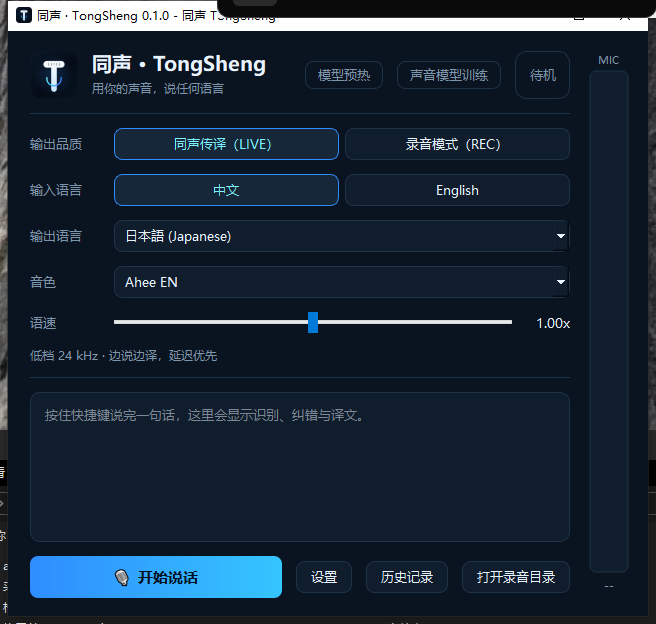
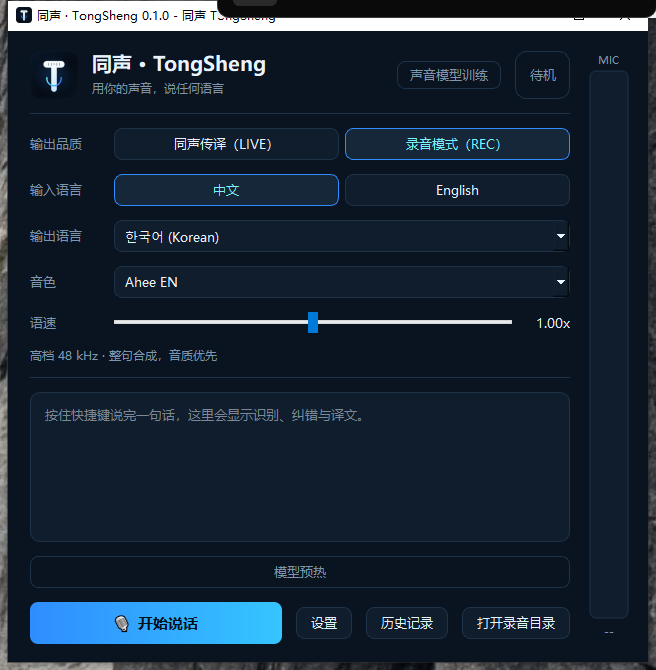
fix: single persistent mic stream (no per-utterance PortAudio churn), live meter during recording, warm-up button above start talking, crash log via faulthandler

diff --git a/tongsheng/audio/capture.py b/tongsheng/audio/capture.py
@@ -62,8 +62,133 @@ def parse_device(value: str | int | None) -> int | None:
     return None
 
 
+class AudioInput:
+    """One persistent microphone stream used for both metering and recording.
+
+    Opening/closing PortAudio streams for every utterance is what makes some
+    WASAPI drivers unhappy (and it also made the level meter go dead while
+    recording). Here the stream stays open; a "take" is just a flag that makes
+    the callback keep the frames.
+    """
+
+    def __init__(self, sample_rate: int = 16000, device: str | int | None = None,
+                 max_seconds: float = 60.0, block_ms: int = 40) -> None:
+        self.sample_rate = int(sample_rate)
+        self.device = parse_device(device)
+        self.max_seconds = float(max_seconds)
+        self.block_ms = int(block_ms)
+        self._stream: Any = None
+        self._lock = threading.Lock()
+        self._take: list[np.ndarray] = []
+        self._recording = False
+        self._device_rate = 48000
+        self._level_db = -90.0
+        self._frames = 0
+        self._overflow = 0
+
+    # -- state ----------------------------------------------------------
+    @property
+    def running(self) -> bool:
+        return self._stream is not None
+
+    @property
+    def recording(self) -> bool:
+        return self._recording
+
+    @property
+    def level_db(self) -> float:
+        return self._level_db
+
+    @property
+    def seconds(self) -> float:
+        return self._frames / float(self._device_rate or 1)
+
+    # -- device ---------------------------------------------------------
+    def open(self) -> bool:
+        if self._stream is not None:
+            return True
+        try:
+            import sounddevice as sd
+
+            device = self.device
+            info = sd.query_devices(device, "input") if device is not None else \
+                sd.query_devices(kind="input")
+            self._device_rate = int(info.get("default_samplerate") or 48000)
+            blocksize = max(256, int(self._device_rate * self.block_ms / 1000))
+
+            def callback(indata, frames, _time, status):  # noqa: ANN001
+                if status:
+                    self._overflow += 1
+                data = indata[:, 0].copy() if indata.ndim > 1 else indata.copy()
+                rms = float(np.sqrt(np.mean(np.square(data)))) if data.size else 0.0
+                self._level_db = max(-90.0, 20.0 * float(np.log10(rms + 1e-12)))
+                with self._lock:
+                    if not self._recording:
+                        return
+                    if self._frames > self.max_seconds * self._device_rate:
+                        return
+                    self._take.append(data)
+                    self._frames += len(data)
+
+            self._stream = sd.InputStream(
+                samplerate=self._device_rate, channels=1, dtype="float32",
+                device=device, blocksize=blocksize, callback=callback)
+            self._stream.start()
+            log.info("microphone stream open (%d Hz, block %d ms)",
+                     self._device_rate, self.block_ms)
+            return True
+        except Exception as exc:  # noqa: BLE001
+            log.warning("cannot open microphone: %s", exc)
+            self._stream = None
+            return False
+
+    def close(self) -> None:
+        stream = self._stream
+        self._stream = None
+        self._recording = False
+        if stream is not None:
+            try:
+                stream.stop()
+                stream.close()
+            except Exception:
+                pass
+
+    # -- takes ----------------------------------------------------------
+    def start_take(self) -> bool:
+        if not self.open():
+            return False
+        with self._lock:
+            self._take = []
+            self._frames = 0
+            self._recording = True
+        return True
+
+    def stop_take(self) -> np.ndarray:
+        with self._lock:
+            self._recording = False
+            chunks = self._take
+            self._take = []
+            self._frames = 0
+        if not chunks:
+            return np.zeros(0, dtype=np.float32)
+        audio = wav.to_mono(np.concatenate(chunks))
+        if self._device_rate != self.sample_rate:
+            audio = wav.resample(audio, self._device_rate, self.sample_rate)
+        return audio
+
+    def abort_take(self) -> None:
+        with self._lock:
+            self._recording = False
+            self._take = []
+            self._frames = 0
+
+
 class Recorder:
-    """Records one utterance at the device rate, then returns 16 kHz mono."""
+    """Records one utterance at the device rate, then returns 16 kHz mono.
+
+    Kept for the training dialog, which records long takes while the main
+    input stream is paused.
+    """
 
     def __init__(self, sample_rate: int = 16000, channels: int = 1,
                  device: str | int | None = None, max_seconds: float = 40.0) -> None:
@@ -78,6 +203,12 @@ class Recorder:
         self._device_rate = self.sample_rate
         self._overflow = 0
         self._frames = 0
+        self._level_db = -90.0
+
+    @property
+    def level_db(self) -> float:
+        """Live input level of the take currently being recorded."""
+        return self._level_db
 
     @property
     def recording(self) -> bool:
@@ -101,6 +232,10 @@ class Recorder:
         def callback(indata, frames, _time, status):  # noqa: ANN001
             if status:
                 self._overflow += 1
+            data = np.asarray(indata, dtype=np.float32)
+            if data.size:
+                rms = float(np.sqrt(np.mean(data ** 2)))
+                self._level_db = max(-90.0, 20.0 * float(np.log10(rms + 1e-12)))
             with self._lock:
                 if not self._recording:
                     return

diff --git a/tongsheng/service.py b/tongsheng/service.py
@@ -16,7 +16,7 @@ from pathlib import Path
 from typing import Any, Callable
 
 from .asr import ASREngine, create_engine, engine_kind_for_language
-from .audio import MicMonitor, Recorder, StreamingPlayer
+from .audio import AudioInput, StreamingPlayer
 from .config import (AppConfig, normalize_language, normalize_language_output,
                      other_language, speaks_target)
 from .correct import Corrector, NullCorrector
@@ -85,10 +85,9 @@ class TongShengService:
         self._ready = threading.Event()
         self._warming = False
 
-        self.recorder = Recorder(sample_rate=config.audio.sample_rate,
-                                 device=config.audio.input_device,
-                                 max_seconds=config.audio.max_seconds)
-        self.monitor = MicMonitor(device=config.audio.input_device)
+        self.input = AudioInput(sample_rate=config.audio.sample_rate,
+                                device=config.audio.input_device,
+                                max_seconds=config.audio.max_seconds)
         self.player = StreamingPlayer(device=config.audio.output_device)
         self.tts = TTSRuntime(config, models, on_status=on_status)
         self.history: list[TurnResult] = []
@@ -172,11 +171,11 @@ class TongShengService:
         self._ready.set()
         self.on_status("ready")
         self._set_state(State.IDLE, "ready")
-        self.monitor.start()
+        self.input.open()
 
     # -- input level ----------------------------------------------------
     def mic_level(self) -> float:
-        return self.monitor.level_db
+        return self.input.level_db
 
     def _build_pipeline(self) -> None:
         cfg = self.config.llm
@@ -200,6 +199,10 @@ class TongShengService:
         """Unload ASR/TTS before a training run so it gets the whole GPU."""
         log.info("pausing models for training")
         try:
+            self.input.close()
+        except Exception:
+            pass
+        try:
             self.tts.unload()
         except Exception:
             pass
@@ -212,6 +215,7 @@ class TongShengService:
         self._asr_ready.clear()
 
     def resume_models(self) -> None:
+        self.input.open()
         language = self.config.language
         try:
             self.asr_engine(language).warmup()
@@ -226,6 +230,10 @@ class TongShengService:
 
     def shutdown(self) -> None:
         self.cancel()
+        try:
+            self.input.close()
+        except Exception:
+            pass
         try:
             self.tts.unload()
         except Exception:
@@ -320,44 +328,31 @@ class TongShengService:
             self.on_error("模型还在加载")
             return False
         self.player.stop()
-        self.monitor.stop()          # the recorder owns the mic now
-        try:
-            self.recorder.start()
-        except Exception as exc:  # noqa: BLE001
-            self.on_error(f"麦克风打开失败：{exc}")
-            self.monitor.start()
+        if not self.input.start_take():
+            self.on_error("麦克风打开失败，请检查输入设备")
             return False
         self._set_state(State.LISTENING, "listening")
         return True
 
     def end(self) -> None:
-        if not self.recorder.recording:
+        if not self.input.recording:
             return
-        samples = self.recorder.stop()
+        samples = self.input.stop_take()
         if samples.size < self.config.audio.sample_rate * 0.25:
             self._set_state(State.IDLE, "too short")
-            self.monitor.start()
             return
         self._run_async(samples)
 
     def abort_listening(self) -> None:
         """Drop the current take without transcribing (gesture was cancelled)."""
-        try:
-            self.recorder.abort()
-        except Exception:
-            pass
+        self.input.abort_take()
         if self._state == State.LISTENING:
             self._set_state(State.IDLE, "cancelled")
-        self.monitor.start()
 
     def cancel(self) -> None:
-        try:
-            self.recorder.abort()
-        except Exception:
-            pass
+        self.input.abort_take()
         self.player.stop()
         self.tts.stop()
-        self.monitor.start()
 
     # -- processing -----------------------------------------------------
     def _run_async(self, samples) -> None:  # noqa: ANN001
@@ -445,7 +440,6 @@ class TongShengService:
             time.sleep(0.2)
         finally:
             self._set_state(State.IDLE, "ready")
-            self.monitor.start()
 
     def _append_history(self, result: TurnResult) -> None:
         base = self.models.results or Path("results")

diff --git a/tongsheng/app.py b/tongsheng/app.py
@@ -3,6 +3,7 @@
 from __future__ import annotations
 
 import sys
+import time
 from pathlib import Path
 
 from . import APP_ID, APP_NAME
@@ -47,11 +48,32 @@ def _set_app_user_model_id() -> None:
         pass
 
 
+def _install_crash_handler(models: ModelPaths | None) -> None:
+    """Dump every thread's Python stack if the process dies natively (0xC0000005)."""
+    import faulthandler
+
+    try:
+        base = Path(models.logs) if models is not None and models.logs else Path("logs")
+        base.mkdir(parents=True, exist_ok=True)
+        handle = (base / "crash.log").open("a", encoding="utf-8", buffering=1)
+        handle.write(f"\n===== run {time.strftime('%Y-%m-%d %H:%M:%S')} =====\n")
+        faulthandler.enable(file=handle, all_threads=True)
+        globals()["_CRASH_HANDLE"] = handle
+    except Exception:  # noqa: BLE001
+        pass
+
+    def hook(exc_type, exc, tb):  # noqa: ANN001
+        log.error("unhandled exception", exc_info=(exc_type, exc, tb))
+
+    sys.excepthook = hook
+
+
 def run() -> int:
     _set_app_user_model_id()
     config = load_config()
     models = config.resolve_models()
     setup_logging(models.logs)
+    _install_crash_handler(models)
 
     from PySide6.QtWidgets import QApplication
 

diff --git a/tongsheng/ui/main_window.py b/tongsheng/ui/main_window.py
@@ -106,10 +106,6 @@ class MainWindow(QWidget):
         titles.addWidget(self.title)
         titles.addWidget(self.subtitle)
         header.addLayout(titles, 1)
-        self.warmup_button = QPushButton()
-        self.warmup_button.setObjectName("ghost")
-        self.warmup_button.clicked.connect(self.tray.warmup_models)
-        header.addWidget(self.warmup_button)
         self.train_button = QPushButton()
         self.train_button.setObjectName("ghost")
         self.train_button.clicked.connect(self.tray.open_training)
@@ -179,6 +175,13 @@ class MainWindow(QWidget):
         self.transcript.setMinimumHeight(150)
         self.transcript.setObjectName("transcript")
         root.addWidget(self.transcript, 1)
+
+        # warm-up sits right above the talk button
+        self.warmup_button = QPushButton()
+        self.warmup_button.setObjectName("ghost")
+        self.warmup_button.setMinimumHeight(32)
+        self.warmup_button.clicked.connect(self.tray.warmup_models)
+        root.addWidget(self.warmup_button)
 
         # actions
         actions = QHBoxLayout()

diff --git a/tongsheng/ui/meter.py b/tongsheng/ui/meter.py
@@ -9,7 +9,7 @@ from PySide6.QtWidgets import QWidget
 from ..audio import wav
 from . import palette
 
-FLOOR_DB = -60.0
+FLOOR_DB = -50.0
 CEIL_DB = 0.0
 
 
@@ -75,6 +75,14 @@ class LevelMeter(QWidget):
             painter.setPen(Qt.NoPen)
             painter.setBrush(gradient)
             painter.drawRoundedRect(bar, 4, 4)
+
+        # ticks so an idle bar still looks like a meter
+        painter.setPen(QPen(QColor(palette.LINE), 1))
+        for db in (0, -10, -20, -30, -40):
+            ratio = (db - FLOOR_DB) / (CEIL_DB - FLOOR_DB)
+            y = rect.bottom() - int(span * ratio)
+            painter.drawLine(rect.left() + 1, y, rect.left() + 6, y)
+            painter.drawLine(rect.right() - 6, y, rect.right() - 1, y)
 
         # peak hold line
         peak_ratio = (self._peak - FLOOR_DB) / (CEIL_DB - FLOOR_DB)

diff --git a/tongsheng/audio/__init__.py b/tongsheng/audio/__init__.py
@@ -1,10 +1,12 @@
 """Audio primitives: WAV helpers, microphone capture, streaming playback."""
 
 from . import wav
-from .capture import InputDevice, MicMonitor, Recorder, list_input_devices, parse_device
+from .capture import (AudioInput, InputDevice, MicMonitor, Recorder,
+                      list_input_devices, parse_device)
 from .player import StreamingPlayer, list_output_devices, play_file
 
 __all__ = [
-    "wav", "Recorder", "MicMonitor", "InputDevice", "list_input_devices",
-    "parse_device", "StreamingPlayer", "list_output_devices", "play_file",
+    "wav", "Recorder", "AudioInput", "MicMonitor", "InputDevice",
+    "list_input_devices", "parse_device", "StreamingPlayer",
+    "list_output_devices", "play_file",
 ]
